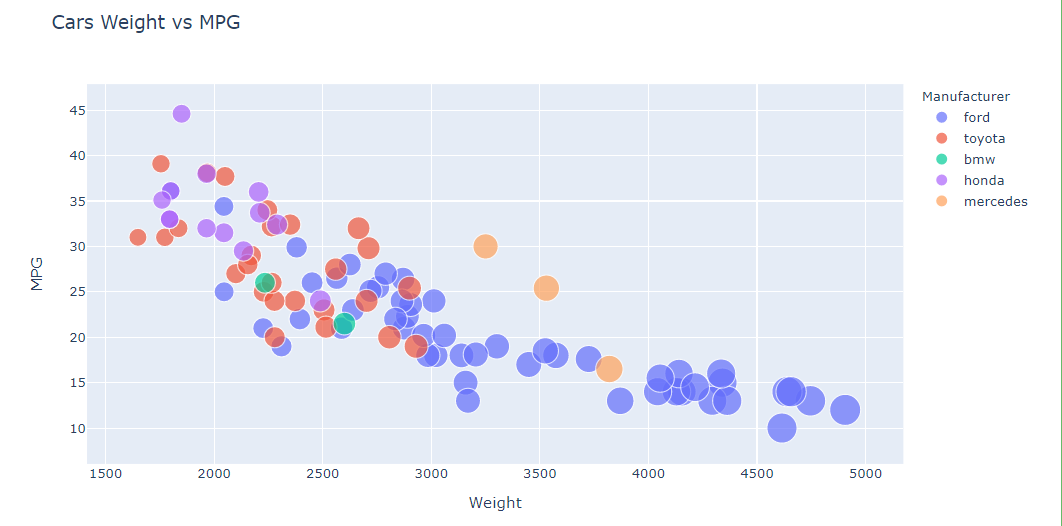
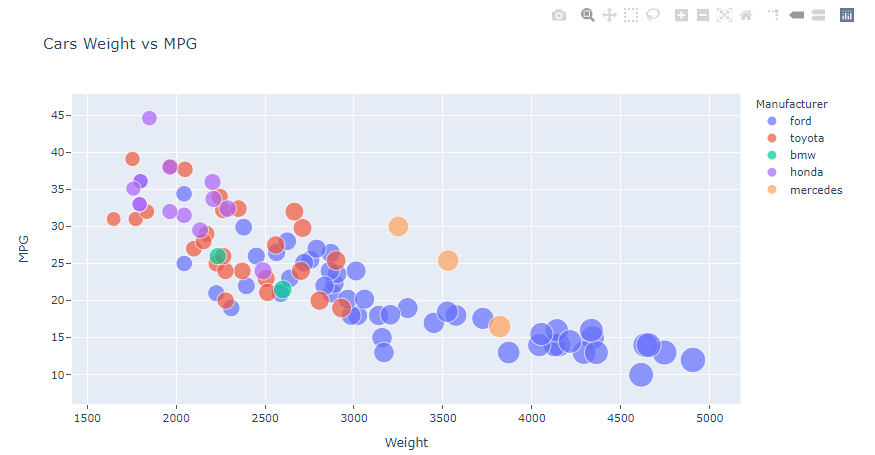
done

diff --git a/d3/index.html b/d3/index.html
@@ -1,0 +1,136 @@
+<script src="https://d3js.org/d3.v6.min.js"></script>
+
+<h1>Assignment 2 for CS 573: Data Visualization </h1>
+<p>Imogen Cleaver-Stigum </p>
+<p>February 2021 </p>
+
+<div id="value"> </div>
+
+<h2 style="text-align:center">Car Weight vs MPG</h2>
+<script>
+    var margin = { top: 20, right: window.innerWidth / 10, bottom: 30, left: window.innerWidth / 10 },
+        width = window.innerWidth - margin.left - margin.right,
+        height = 600 - margin.top - margin.bottom;
+
+    var svg = d3.select("body").append("svg")
+        .attr("width", width + margin.left + margin.right)
+        .attr("height", height + margin.top + margin.bottom)
+        .append("g")
+        .attr("transform",
+            "translate(" + margin.left + "," + margin.top + ")");
+
+    d3.csv("cars-sample.csv").then(function (data) {
+
+
+        svg.append('rect')
+            .style("fill", "none")
+            .style("pointer-events", "all")
+            .attr('width', width)
+            .attr('height', height)
+            .on('mousemove', function (event) {
+                crosshairs(event)
+            })
+            .attr('id', 'background')
+
+        // axes
+        var x = d3.scaleTime()
+            .range([0, width])
+            .domain([1500, 5000]);
+        var y = d3.scaleLinear()
+            .range([height, 0])
+            .domain([5, 50]);
+        svg.append("g")
+            .attr("transform", "translate(0," + height + ")")
+            .call(d3.axisBottom(x));
+        svg.append("g")
+            .call(d3.axisLeft(y));
+
+        svg.append('text')
+            .text('MPG')
+            .attr('transform', 'rotate(-90)')
+            .attr('x', -1 * height / 2)
+            .attr('y', -50)
+
+        // colors categorical
+        var colormapper = d3.scaleOrdinal().domain(data)
+            .range(d3.schemeSet2);
+
+        // points
+        svg.selectAll("dot")
+            .data(data)
+            .enter()
+            .append("circle")
+            .attr("r", function (d) { return (d.Weight) / 200; })
+            .attr("cx", function (d) { return x(d.Weight); })
+            .attr("cy", function (d) { return y(d.MPG); })
+            .attr('fill', function (d) { return colormapper(d.Manufacturer); })
+            .style("opacity", .5)
+            .on("mouseover", function (d) {
+                d3.select(this)
+                    .style("opacity", 1)
+                    .style("stroke", 'black')
+                    .raise()
+            })
+            .on("mouseout", function (d) {
+                d3.select(this)
+                    .style("opacity", .5)
+                    .style("stroke", 'none')
+            })
+
+        svg.selectAll("circle")
+            .transition()
+            .delay(function (d, i) { return (i * 3) })
+            .duration(2000)
+            .attr("cx", function (d) { return x(d.Weight); })
+            .attr("cy", function (d) { return y(d.MPG); })
+
+
+        svg.append('line')
+            .style("stroke", "black")
+            .attr('id', 'horizLeft')
+
+        svg.append('line')
+            .style("stroke", "black")
+            .attr('id', 'horizRight')
+
+        svg.append('line')
+            .style("stroke", "black")
+            .attr('id', 'verticalUpper')
+
+        svg.append('line')
+            .style("stroke", "black")
+            .attr('id', 'verticalLower')
+        svg.on('mousemove', function (event) {
+            crosshairs(event)
+        })
+
+
+        function crosshairs(event) {
+            var x0 = d3.pointer(event)[0]
+            var y0 = d3.pointer(event)[1]
+            d3.select('#horizLeft')
+                .attr('x1', 0)
+                .attr('x2', x0 - 1)
+                .attr('y1', y0)
+                .attr('y2', y0)
+            d3.select('#horizRight')
+                .attr('x1', x0 + 1)
+                .attr('x2', width)
+                .attr('y1', y0)
+                .attr('y2', y0)
+
+            d3.select('#verticalLower')
+                .attr('x1', x0)
+                .attr('x2', x0)
+                .attr('y1', 0)
+                .attr('y2', y0 - 1)
+            d3.select('#verticalUpper')
+                .attr('x1', x0)
+                .attr('x2', x0)
+                .attr('y1', y0 + 1)
+                .attr('y2', height)
+        }
+    });
+
+</script>
+<p style="text-align:center">Weight (lbs)</p>

diff --git a/README.md b/README.md
@@ -7,15 +7,20 @@ Due 26 Feb 2021
 Imogen Cleaver-Stigum
 
 TODO
-- design
 - excel
-- d3 writeup
 - design writeup
 - submit
 
 # 1. d3 (Javascript) 
 
-![caption](img/d3.png)
+Using d3 was trickier than the other libraries at first because you have to create all the graph elements individually rather than having the graph created by the library (appending axes, points, etc). It took more code than the other libraries ot get the basic scatterplot, but it was also more personalizable. 
+
+I used the color scheme from d3: schemeSet2.
+
+Beyond creating the basic scatterplot required, I also made the points become opaque and get a black outline on mouseover so they stand out. The points also come to the front on mouseover, so there are not points drawn later that are still blocking them. I also added crosshairs so you can see exactly where on the axes your mouse is. 
+
+![caption](img/d31.png)
+![caption](img/d32.png)
 
 # 2. ggplot2 (R) 
 
@@ -30,6 +35,8 @@ I used an R markdown file to make this and the other R plot, so the R folder con
 # 3. Matplotlib (Python)
 
 Python's library Matplotlib makes basic plots. It is easy to use but it does not automatically provide any extra features. 
+
+For this plot I used the tableua color scheme of olive, pink, cyan, brown, and grey. 
 
 One version of my vis has exis ticks and one has a grid. 
 
@@ -76,6 +83,8 @@ Seaborn has several built in styles, including:
 - darkgrid
 - ticks
 
+For this plot I used the tableua color scheme of olive, pink, cyan, brown, and grey. 
+
 Here is the verstion fo the scatterplot in the whitegrid style:
 
 ![caption](img/seaborn.png)
@@ -109,13 +118,13 @@ While these features are good and it was very easy ot use, Altair does not have 
 
 ## 1. R Shiny App
 
+The shiny app is accessible at: https://mango3.shinyapps.io/Cars/
+
 This app is a technical achievement because I published the R scatterplot so it can be accessed from a URL, as well as implementing dropdown menus to change 3 variables to any of the variables in the .csv file: x, y, and marker size. It is a plotly scatterplot so it has the same xtra features built in. It is interesting to see the different variables' relationships. 
 
 ![caption](img/shiny1.png)
 ![caption](img/shiny2.png)
 ![caption](img/shiny3.png)
-
-The shiny app is accessible at: https://mango3.shinyapps.io/Cars/
 
 The shiny app code is in the Cars folder in the R folder. 
 
@@ -123,16 +132,26 @@ The shiny app code is in the Cars folder in the R folder.
 
 I also added an extra variable (Horsepower) to the hover function in Python Plotly, so when you hover you can see horsepower in addition to the other relevant variables. 
 
+## 3. Mouseover events in d3
+
+The mouseover events in the d3 plot (making the point opaque and giving it a black outline, bringing the point to the front, and having crosshairs follow the mouse around on the plot) are technical achievements as well as design achievements because I had to figure out how to have both the crosshairs and the point-mouse-events happen at the same time. At first, the crosshairs got in the way because they were on top of the points so you could never mouse over a point. I solved this by making them out of 4 lines instead of 2 intersecting lines. So there is a 2-pixel-wide gap where the mouse is pointing between the upper and lower halves of the verticla line, as well as between the left and right halves of the horizontal line. This allows to user to mouse over the points without the crosshairs getting in the way. 
+
+There is an empty rectangle behind the plot covering the whole svg so that the crosshairs are still detected when the mouse is over an empty space in the plot, not only when it is directly over a point. 
+
+## 4. Scaling to window
+
+I also made the whole svg and the plot scale to the width of the window at the time the page is loaded. 
+
 # Design Achievements 
 
-1. Color schemes
+## 1. Mouseover events for points in d3
 
-My plots demonstrate several different color schemes. The Altair plot's color scheme is not color blind friendly, but the rest are. 
+Increasing the opacity of the point to 1 and making the black outline around the point when you mouse over it makes it stand out more, so someone could point out a particular circle on the plot. Bringing the point to the front when it is moused over is also important so you can see the whole circle, not interfered with by any other circles nearby. 
 
-seaborn
-shiny app make prettier
-interactivity
-color picker???
-dark mode
-change to not dots
+## 2. Crosshairs in d3
 
+The crosshairs in the d3 plot make it easier to tell where a given point in the plot lies on the x and y axes. 
+
+## 3. Color schemes
+
+My plots demonstrate several different color schemes. The Altair plot's color scheme is not color blind friendly, but the rest are. I used d3's
